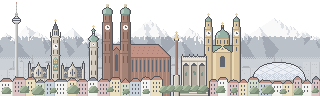
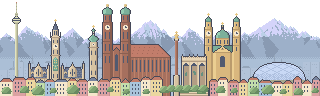
art: twenty-one more sprites by hand, a more saturated skyline at 60 %
New: baking paper, banana skins, egg box, preserving jar, disposable cutlery,
the battery part of the remote, meat, drinks carton, the glass bottle in all
its colours, bulb, rubber boots, wood preservative, insecticide, the lid of the
yoghurt pot, cat litter, pram.

The skyline was redrawn with stronger colour, so it is shown at 60 % instead of
85 %: it stays a backdrop and does not compete with what falls in front of it.

diff --git a/game/css/game.css b/game/css/game.css
@@ -39,7 +39,7 @@ img, canvas { image-rendering: pixelated; image-rendering: crisp-edges; }
 #app[data-place="wertstoffhof"] { --sky-top: #aab2c4; --sky-mid: #c3c9d6; --sky-bot: #d9dde6; }
 #app[data-place="problemabfall"] { --sky-top: #dba0a0; --sky-mid: #e8bcbc; --sky-bot: #f3d6d6; }
 #sky { position: absolute; left: 50%; bottom: 0; width: max(640px, 100%); max-width: none; transform: translateX(-50%);
-  opacity: .85; pointer-events: none; }
+  opacity: .6; pointer-events: none; }
 #field { position: absolute; inset: 0; overflow: hidden; }
 
 .item { position: absolute; left: 50%; top: 0; width: 140px; text-align: center; will-change: transform; }
